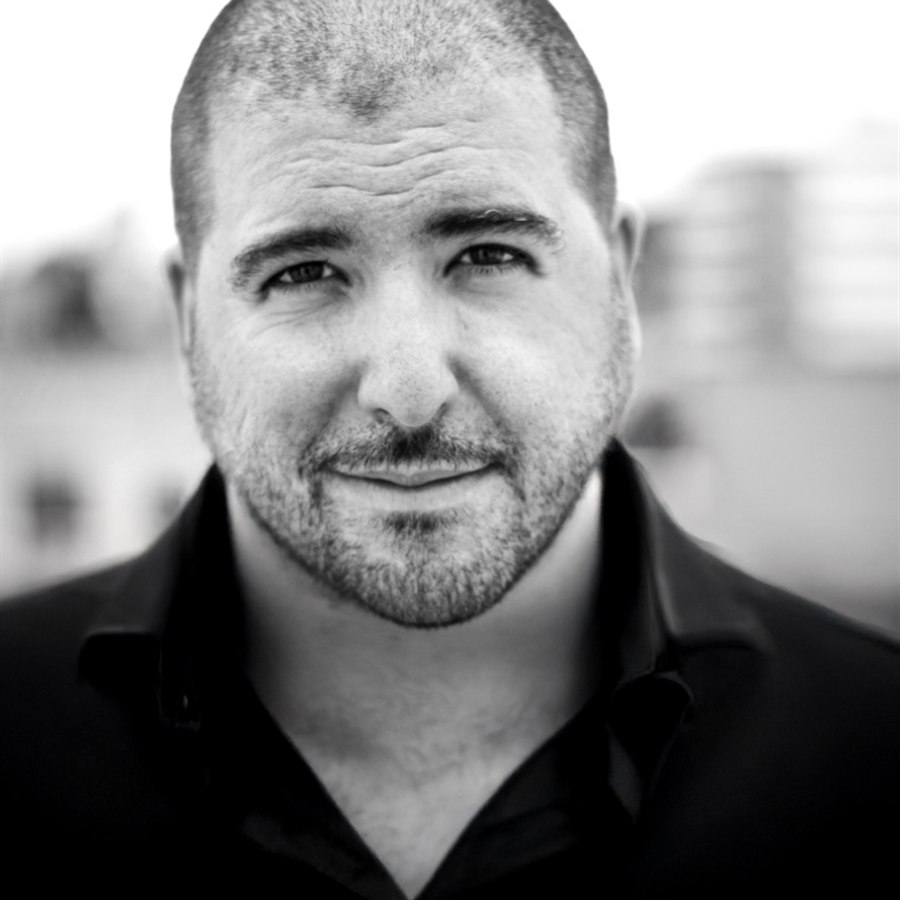
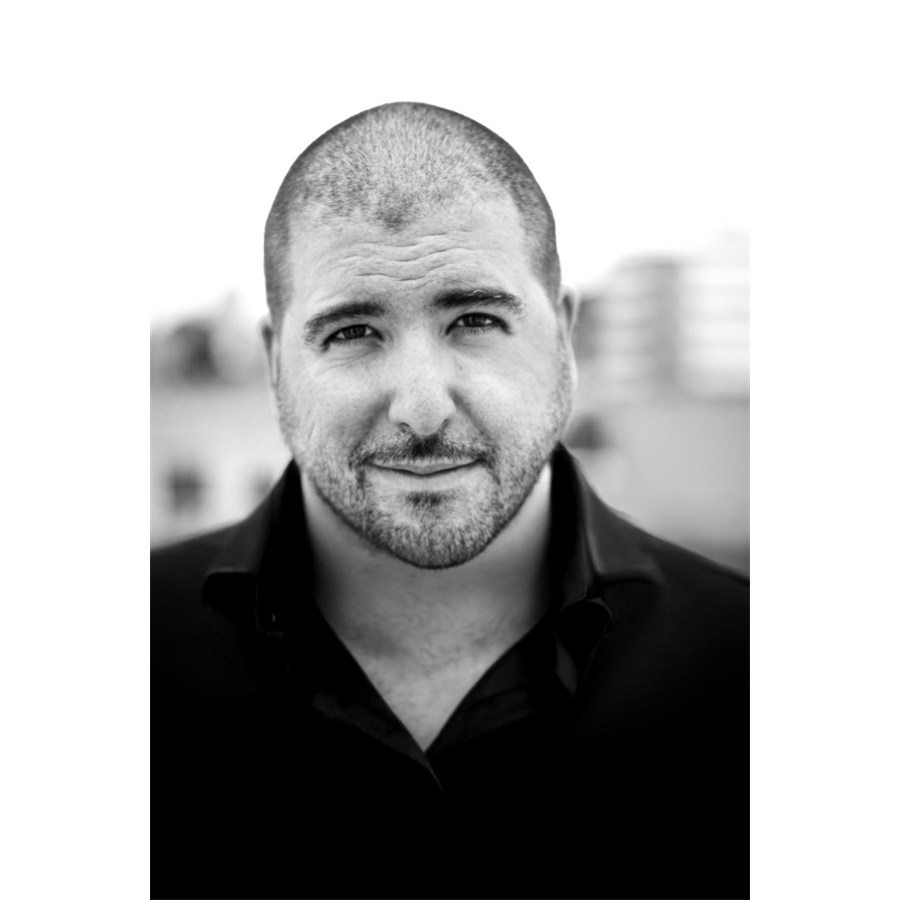
Refine artist card typography and portrait

diff --git a/styles.css b/styles.css
@@ -849,9 +849,8 @@ a.sponsor-logo:hover {
 .artist-card-body h3 {
   margin: 0;
   font-family: var(--serif);
-  font-size: clamp(2.1rem, 3.15vw, 3.05rem);
-  line-height: 0.9;
-  overflow-wrap: break-word;
+  font-size: clamp(2rem, 2.65vw, 2.58rem);
+  line-height: 0.95;
 }
 
 .artist-detail {

diff --git a/index.html b/index.html
@@ -18,7 +18,7 @@
   <link rel="preconnect" href="https://fonts.googleapis.com">
   <link rel="preconnect" href="https://fonts.gstatic.com" crossorigin>
   <link href="https://fonts.googleapis.com/css2?family=Cormorant+Garamond:wght@400;500;600;700&family=Inter:wght@400;500;700;900&family=Tangerine:wght@400;700&display=swap" rel="stylesheet">
-  <link rel="stylesheet" href="styles.css?v=20260624-3">
+  <link rel="stylesheet" href="styles.css?v=20260624-4">
 </head>
 <body>
   <header class="site-header">